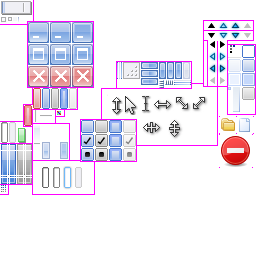
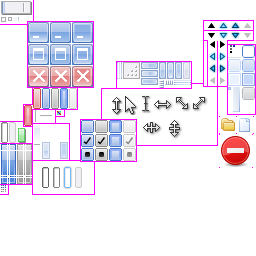
making the file manager pretty

Changed region(s): [[0.5312, 0.2188, 0.75, 0.3438], [0.9375, 0.2188, 1.0, 0.2812], [0.4375, 0.25, 0.5, 0.3125]]

diff --git a/api/gui.cpp b/api/gui.cpp
@@ -30,7 +30,7 @@ static void EnterDebugger() {
 #define LIST_VIEW_MARGIN (10)
 #define LIST_VIEW_TEXT_MARGIN (6)
 #define LIST_VIEW_WITH_BORDER_MARGIN (LIST_VIEW_MARGIN + STANDARD_BORDER_SIZE)
-#define LIST_VIEW_ROW_HEIGHT (20)
+#define LIST_VIEW_ROW_HEIGHT (21)
 #define LIST_VIEW_HEADER_HEIGHT (25)
 #define LIST_VIEW_COLUMN_TEXT_COLOR (0x4D6278)
 #define LIST_VIEW_PRIMARY_TEXT_COLOR (0x000000)
@@ -50,6 +50,7 @@ static void EnterDebugger() {
 struct UIImage {
 	OSRectangle region;
 	OSRectangle border;
+	OSDrawMode drawMode;
 };
 
 #if 0
@@ -136,11 +137,11 @@ static UIImage textboxDisabled		= {{22 + 52, 22 + 61, 166, 189}, {22 + 55, 22 + 
 
 static UIImage gridBox 			= {{1, 7, 17, 23}, {3, 4, 19, 20}};
 static UIImage menuBox 			= {{1, 32, 1, 15}, {28, 30, 4, 6}};
-static UIImage menubarBackground	= {{34, 40, 124, 145}, {35, 38, 124, 124}};
+static UIImage menubarBackground	= {{34, 40, 124, 145}, {35, 38, 128, 144}, OS_DRAW_MODE_STRECH};
 static UIImage dialogAltAreaBox		= {{18, 19, 17, 22}, {18, 19, 21, 22}};
 
-static UIImage menuItemHover		= {{42, 50, 142, 159}, {45, 46, 151, 152}};
-static UIImage menuItemDragged		= {{18 + 42, 18 + 50, 142, 159}, {18 + 45, 18 + 46, 151, 152}};
+static UIImage menuItemHover		= {{42, 50, 142, 159}, {45, 46, 151, 157}, OS_DRAW_MODE_STRECH};
+static UIImage menuItemDragged		= {{18 + 42, 18 + 50, 142, 159}, {18 + 45, 18 + 46, 151, 157}, OS_DRAW_MODE_STRECH};
 
 static UIImage scrollbarTrackHorizontalEnabled  = {{121, 122, 62, 79}, {121, 122, 62, 62}};
 static UIImage scrollbarTrackHorizontalPressed  = {{117, 118, 62, 79}, {117, 118, 62, 62}};
@@ -185,7 +186,7 @@ static UIImage listViewSelected2           = {{14 + 228, 14 + 241, 28 + 59, 28 +
 static UIImage listViewLastClicked         = {{14 + 228, 14 + 241, 59 - 14, 72 - 14}, {14 + 228 + 6, 14 + 228 + 7, 59 + 6 - 14, 59 + 7 - 14}};
 static UIImage listViewSelectionBox        = {{14 + 228 - 14, 14 + 231 - 14, 42 + 59 - 14, 42 + 62 - 14}, {14 + 228 + 1 - 14, 14 + 228 + 2 - 14, 42 + 59 + 1 - 14, 42 + 59 + 2 - 14}};
 static UIImage listViewColumnHeaderDivider = {{239, 240, 87, 112}, {239, 239, 87, 88}};
-static UIImage listViewColumnHeader        = {{233, 239, 87, 112}, {233, 234, 87, 88}};
+static UIImage listViewColumnHeader        = {{233, 239, 87, 112}, {233, 239, 87, 88}};
 
 static UIImage lineHorizontal		= {{40, 52, 115, 116}, {41, 42, 115, 115}};
 static UIImage *lineHorizontalBackgrounds[] = { &lineHorizontal, &lineHorizontal, &lineHorizontal, &lineHorizontal, };
@@ -764,22 +765,22 @@ static OSCallbackResponse ProcessControlMessage(OSObject _object, OSMessage *mes
 				if (control->backgrounds) {
 					if (control->backgrounds[0]) {
 						OSDrawSurfaceClipped(message->paint.surface, OS_SURFACE_UI_SHEET, control->bounds, control->backgrounds[0]->region, 
-								control->backgrounds[0]->border, OS_DRAW_MODE_REPEAT_FIRST, 0xFF, message->paint.clip);
+								control->backgrounds[0]->border, control->backgrounds[0]->drawMode, 0xFF, message->paint.clip);
 					}
 
 					if (control->backgrounds[2] && control->current2) {
 						OSDrawSurfaceClipped(message->paint.surface, OS_SURFACE_UI_SHEET, control->bounds, control->backgrounds[2]->region, 
-								control->backgrounds[2]->border, OS_DRAW_MODE_REPEAT_FIRST, control->current2 == 15 ? 0xFF : 0xF * control->current2, message->paint.clip);
+								control->backgrounds[2]->border, control->backgrounds[2]->drawMode, control->current2 == 15 ? 0xFF : 0xF * control->current2, message->paint.clip);
 					}
 
 					if (control->backgrounds[3] && control->current3) {
 						OSDrawSurfaceClipped(message->paint.surface, OS_SURFACE_UI_SHEET, control->bounds, control->backgrounds[3]->region, 
-								control->backgrounds[3]->border, OS_DRAW_MODE_REPEAT_FIRST, control->current3 == 15 ? 0xFF : 0xF * control->current3, message->paint.clip);
+								control->backgrounds[3]->border, control->backgrounds[3]->drawMode, control->current3 == 15 ? 0xFF : 0xF * control->current3, message->paint.clip);
 					}
 
 					if (control->backgrounds[1] && control->current4) {
 						OSDrawSurfaceClipped(message->paint.surface, OS_SURFACE_UI_SHEET, control->bounds, control->backgrounds[1]->region, 
-								control->backgrounds[1]->border, OS_DRAW_MODE_REPEAT_FIRST, control->current4 == 15 ? 0xFF : 0xF * control->current4, message->paint.clip);
+								control->backgrounds[1]->border, control->backgrounds[1]->drawMode, control->current4 == 15 ? 0xFF : 0xF * control->current4, message->paint.clip);
 					}
 				}
 
@@ -799,22 +800,22 @@ static OSCallbackResponse ProcessControlMessage(OSObject _object, OSMessage *mes
 
 					if (control->current1) {
 						OSDrawSurfaceClipped(message->paint.surface, OS_SURFACE_UI_SHEET, bounds, control->icons[0]->region, 
-								control->icons[0]->border, OS_DRAW_MODE_REPEAT_FIRST, 0xFF, message->paint.clip);
+								control->icons[0]->border, control->icons[0]->drawMode, 0xFF, message->paint.clip);
 					}
 
 					if (control->current2) {
 						OSDrawSurfaceClipped(message->paint.surface, OS_SURFACE_UI_SHEET, bounds, control->icons[2]->region, 
-								control->icons[2]->border, OS_DRAW_MODE_REPEAT_FIRST, control->current2 == 15 ? 0xFF : 0xF * control->current2, message->paint.clip);
+								control->icons[2]->border, control->icons[2]->drawMode, control->current2 == 15 ? 0xFF : 0xF * control->current2, message->paint.clip);
 					}
 
 					if (control->current3) {
 						OSDrawSurfaceClipped(message->paint.surface, OS_SURFACE_UI_SHEET, bounds, control->icons[3]->region, 
-								control->icons[3]->border, OS_DRAW_MODE_REPEAT_FIRST, control->current3 == 15 ? 0xFF : 0xF * control->current3, message->paint.clip);
+								control->icons[3]->border, control->icons[3]->drawMode, control->current3 == 15 ? 0xFF : 0xF * control->current3, message->paint.clip);
 					}
 
 					if (control->current4) {
 						OSDrawSurfaceClipped(message->paint.surface, OS_SURFACE_UI_SHEET, bounds, control->icons[1]->region, 
-								control->icons[1]->border, OS_DRAW_MODE_REPEAT_FIRST, control->current4 == 15 ? 0xFF : 0xF * control->current4, message->paint.clip);
+								control->icons[1]->border, control->icons[1]->drawMode, control->current4 == 15 ? 0xFF : 0xF * control->current4, message->paint.clip);
 					}
 				}
 
@@ -1688,7 +1689,7 @@ static OSCallbackResponse ProcessListViewMessage(OSObject object, OSMessage *mes
 						OSDrawSurfaceClipped(surface, OS_SURFACE_UI_SHEET, 
 								OS_MAKE_RECTANGLE(control->bounds.left, control->bounds.right, headerBounds.top, headerBounds.bottom),
 								listViewColumnHeader.region, listViewColumnHeader.border, 
-								OS_DRAW_MODE_REPEAT_FIRST, 0xFF, clip);
+								OS_DRAW_MODE_STRECH, 0xFF, clip);
 					}
 
 					if (ClipRectangle(clip, headerBounds, &clip2)) {
@@ -1875,7 +1876,7 @@ static OSCallbackResponse ProcessListViewMessage(OSObject object, OSMessage *mes
 		
 				if (control->dragging == ListView::DRAGGING_SELECTION) {
 					OSDrawSurfaceClipped(surface, OS_SURFACE_UI_SHEET, control->selectionBox,
-							listViewSelectionBox.region, listViewSelectionBox.border, OS_DRAW_MODE_REPEAT_FIRST, 0xFF, listClip);
+							listViewSelectionBox.region, listViewSelectionBox.border, listViewSelectionBox.drawMode, 0xFF, listClip);
 				}
 			}
 		
@@ -1932,7 +1933,23 @@ static OSCallbackResponse ProcessListViewMessage(OSObject object, OSMessage *mes
 		} break;
 
 		case OS_MESSAGE_MOUSE_LEFT_PRESSED: {
-			if (!IsPointInRectangle(control->bounds, message->mousePressed.positionX, message->mousePressed.positionY)
+			OSRectangle listClip;
+
+			{
+				OSRectangle area = control->bounds;
+				area.top += control->columns ? LIST_VIEW_HEADER_HEIGHT : 0;
+
+				if (control->flags & OS_CREATE_LIST_VIEW_BORDER) {
+					area.top += STANDARD_BORDER_SIZE;
+					area.bottom -= STANDARD_BORDER_SIZE;
+					area.left += STANDARD_BORDER_SIZE;
+					area.right -= STANDARD_BORDER_SIZE;
+				}
+
+				ClipRectangle(control->bounds, area, &listClip);
+			}
+
+			if (!IsPointInRectangle(listClip, message->mousePressed.positionX, message->mousePressed.positionY)
 					|| !(control->flags & OS_CREATE_LIST_VIEW_ANY_SELECTIONS)) {
 				break;
 			}
@@ -2454,10 +2471,10 @@ static OSCallbackResponse ProcessProgressBarMessage(OSObject _object, OSMessage 
 
 			if (control->disabled) {
 				OSDrawSurfaceClipped(message->paint.surface, OS_SURFACE_UI_SHEET, control->bounds, 
-						control->backgrounds[1]->region, control->backgrounds[1]->border, OS_DRAW_MODE_REPEAT_FIRST, 0xFF, message->paint.clip);
+						control->backgrounds[1]->region, control->backgrounds[1]->border, control->backgrounds[1]->drawMode, 0xFF, message->paint.clip);
 			} else {
 				OSDrawSurfaceClipped(message->paint.surface, OS_SURFACE_UI_SHEET, control->bounds, 
-						control->backgrounds[0]->region, control->backgrounds[0]->border, OS_DRAW_MODE_REPEAT_FIRST, 0xFF, message->paint.clip);
+						control->backgrounds[0]->region, control->backgrounds[0]->border, control->backgrounds[0]->drawMode, 0xFF, message->paint.clip);
 
 				int pelletCount = (control->bounds.right - control->bounds.left - 6) / 9;
 
@@ -2473,7 +2490,7 @@ static OSCallbackResponse ProcessProgressBarMessage(OSObject _object, OSMessage 
 						bounds.left += 3 + i * 9;
 						bounds.right = bounds.left + 8;
 						OSDrawSurfaceClipped(message->paint.surface, OS_SURFACE_UI_SHEET, bounds,
-								progressBarPellet.region, progressBarPellet.border, OS_DRAW_MODE_REPEAT_FIRST, 0xFF, message->paint.clip);
+								progressBarPellet.region, progressBarPellet.border, progressBarPellet.drawMode, 0xFF, message->paint.clip);
 					}
 				} else {
 					if (control->value >= pelletCount) control->value -= pelletCount;
@@ -2487,7 +2504,7 @@ static OSCallbackResponse ProcessProgressBarMessage(OSObject _object, OSMessage 
 						bounds.left += 3 + j * 9;
 						bounds.right = bounds.left + 8;
 						OSDrawSurfaceClipped(message->paint.surface, OS_SURFACE_UI_SHEET, bounds,
-								progressBarPellet.region, progressBarPellet.border, OS_DRAW_MODE_REPEAT_FIRST, 0xFF, message->paint.clip);
+								progressBarPellet.region, progressBarPellet.border, progressBarPellet.drawMode, 0xFF, message->paint.clip);
 					}
 				}
 			}
@@ -2860,7 +2877,7 @@ static OSCallbackResponse ProcessGridMessage(OSObject _object, OSMessage *messag
 					if (m.paint.force) {
 						if (grid->background) {
 							OSDrawSurfaceClipped(message->paint.surface, OS_SURFACE_UI_SHEET, grid->bounds, grid->background->region,
-									grid->background->border, OS_DRAW_MODE_REPEAT_FIRST, 0xFF, clip);
+									grid->background->border, grid->background->drawMode, 0xFF, clip);
 						} else if (grid->backgroundColor) {
 							OSFillRectangle(message->paint.surface, clip, OSColor(grid->backgroundColor));
 						}
@@ -2890,7 +2907,7 @@ static OSCallbackResponse ProcessGridMessage(OSObject _object, OSMessage *messag
 					OSRectangle border = grid->background->border;
 
 					OSDrawSurfaceClipped(message->paint.surface, OS_SURFACE_UI_SHEET, full, region,
-							border, OS_DRAW_MODE_REPEAT_FIRST, 0xFF, clip);
+							border, grid->background->drawMode, 0xFF, clip);
 				} else if (grid->backgroundColor) {
 					OSFillRectangle(message->paint.surface, clip, OSColor(grid->backgroundColor));
 				}
@@ -2957,6 +2974,7 @@ OSObject OSCreateGrid(unsigned columns, unsigned rows, unsigned flags) {
 	if (flags & OS_CREATE_GRID_DRAW_BOX) { grid->borderSize += 4; grid->background = &gridBox;  }
 	if (flags & OS_CREATE_GRID_NO_BACKGROUND) { grid->backgroundColor = 0; }
 	if (flags & OS_CREATE_GRID_ALT_BACKGROUND) { grid->background = &dialogAltAreaBox; }
+	if (flags & OS_CREATE_GRID_MENUBAR_BACKGROUND) { grid->background = &menubarBackground; } 
 
 	OSSetCallback(grid, OS_MAKE_CALLBACK(ProcessGridMessage, nullptr));
 
@@ -3326,6 +3344,7 @@ void OSSetScrollbarMeasurements(OSObject _scrollbar, int contentSize, int viewpo
 	if (contentSize <= viewportSize) {
 		scrollbar->enabled = false;
 		scrollbar->height = 0;
+		scrollbar->position = 0;
 
 		OSDisableControl(scrollbar->objects[0], true);
 		OSDisableControl(scrollbar->objects[2], true);

diff --git a/file_manager/main.cpp b/file_manager/main.cpp
@@ -7,6 +7,8 @@
 #define OS_MANIFEST_DEFINITIONS
 #include "../bin/os/file_manager.manifest.h"
 
+// TODO Why does the scrollbar start at the bottom when changing folders?
+
 struct FolderChild {
 	OSDirectoryChild data;
 	bool selected;
@@ -15,6 +17,7 @@ struct FolderChild {
 struct Instance {
 	OSObject folderListing,
 		 folderPath,
+		 statusLabel,
 		 window;
 
 	FolderChild *folderChildren;
@@ -51,6 +54,9 @@ OSListViewColumn folderListingColumns[] = {
 #define COLUMN_SIZE (3)
 	{ OSLiteral("Size"), 100, OS_LIST_VIEW_COLUMN_RIGHT_ALIGNED, },
 };
+
+#define GUI_STRING_BUFFER_LENGTH (1024)
+char guiStringBuffer[GUI_STRING_BUFFER_LENGTH];
 
 int64_t ParseIntegerFromString(char **string, size_t *length, int base) {
 	int64_t value = 0;
@@ -263,8 +269,8 @@ OSCallbackResponse ProcessFolderListingNotification(OSObject object, OSMessage *
 							uint64_t children = data->information.directoryChildren;
 
 							if (children == 0) message->listViewItem.textBytes = OSFormatString(buffer, BUFFER_SIZE, "(empty)");
-							else if (children == 1) message->listViewItem.textBytes = OSFormatString(buffer, BUFFER_SIZE, "1 file");
-							else message->listViewItem.textBytes = OSFormatString(buffer, BUFFER_SIZE, "%d files", children);
+							else if (children == 1) message->listViewItem.textBytes = OSFormatString(buffer, BUFFER_SIZE, "1 item");
+							else message->listViewItem.textBytes = OSFormatString(buffer, BUFFER_SIZE, "%d items", children);
 						}
 					} break;
 				}
@@ -455,6 +461,7 @@ void Instance::LoadFolder(char *path1, size_t pathBytes1, char *path2, size_t pa
 	// Update the UI.
 	OSListViewReset(folderListing);
 	OSListViewInsert(folderListing, 0, childCount);
+	OSSetScrollbarPosition(folderListing, 0, false);
 	OSSetText(folderPath, path, pathBytes);
 	OSEnableCommand(window, commandNavigateParent, pathBytes1 != 1);
 
@@ -484,6 +491,15 @@ void Instance::LoadFolder(char *path1, size_t pathBytes1, char *path2, size_t pa
 			OSEnableCommand(window, commandNavigateForwards, false);
 		}
 	}
+
+	// Update the status label.
+	{
+		size_t length;
+		if (folderChildCount == 0) length = OSFormatString(guiStringBuffer, GUI_STRING_BUFFER_LENGTH, "(empty)");
+		else if (folderChildCount == 1) length = OSFormatString(guiStringBuffer, GUI_STRING_BUFFER_LENGTH, "1 item");
+		else length = OSFormatString(guiStringBuffer, GUI_STRING_BUFFER_LENGTH, "%d items", folderChildCount);
+		OSSetText(statusLabel, guiStringBuffer, length);
+	}
 }
 
 void ProgramEntry() {
@@ -495,23 +511,24 @@ void ProgramEntry() {
 
 	OSObject layout1 = OSCreateGrid(1, 4, OS_CREATE_GRID_NO_BORDER | OS_CREATE_GRID_NO_GAP);
 	OSObject layout2 = OSCreateGrid(2, 1, OS_CREATE_GRID_NO_BORDER | OS_CREATE_GRID_NO_GAP);
-	OSObject layout3 = OSCreateGrid(4, 1, OS_FLAGS_DEFAULT);
-	OSObject layout4 = OSCreateGrid(1, 1, OS_CREATE_GRID_ALT_BACKGROUND);
+	OSObject layout3 = OSCreateGrid(4, 1, OS_CREATE_GRID_MENUBAR_BACKGROUND);
+	OSObject layout4 = OSCreateGrid(2, 1, OS_CREATE_GRID_ALT_BACKGROUND);
 
 	OSSetRootGrid(window, layout1);
 	OSAddGrid(layout1, 0, 2, layout2, OS_CELL_FILL);
 	OSAddGrid(layout1, 0, 0, layout3, OS_CELL_H_EXPAND | OS_CELL_H_PUSH);
 	OSAddGrid(layout1, 0, 3, layout4, OS_CELL_H_EXPAND | OS_CELL_H_PUSH);
 
-	OSSetProperty(layout3, OS_GRID_PROPERTY_BORDER_SIZE, (void *) 2);
-	OSSetProperty(layout3, OS_GRID_PROPERTY_GAP_SIZE, (void *) 2);
+	OSSetProperty(layout3, OS_GRID_PROPERTY_BORDER_SIZE, (void *) 6);
+	OSSetProperty(layout3, OS_GRID_PROPERTY_GAP_SIZE, (void *) 6);
+	OSSetProperty(layout4, OS_GRID_PROPERTY_BORDER_SIZE, (void *) 4);
 
 	instance->folderListing = OSCreateListView(OS_CREATE_LIST_VIEW_MULTI_SELECT);
 	OSAddControl(layout2, 1, 0, instance->folderListing, OS_CELL_FILL);
 	OSListViewSetColumns(instance->folderListing, folderListingColumns, sizeof(folderListingColumns) / sizeof(folderListingColumns[0]));
 	OSSetObjectNotificationCallback(instance->folderListing, OS_MAKE_CALLBACK(ProcessFolderListingNotification, instance));
 
-	OSAddControl(layout1, 0, 1, OSCreateLine(OS_ORIENTATION_HORIZONTAL), OS_CELL_H_EXPAND | OS_CELL_H_PUSH);
+	// OSAddControl(layout1, 0, 1, OSCreateLine(OS_ORIENTATION_HORIZONTAL), OS_CELL_H_EXPAND | OS_CELL_H_PUSH);
 
 	OSObject backButton = OSCreateButton(commandNavigateBackwards);
 	OSAddControl(layout3, 0, 0, backButton, OS_FLAGS_DEFAULT);
@@ -524,8 +541,8 @@ void ProgramEntry() {
 	OSAddControl(layout3, 3, 0, instance->folderPath, OS_CELL_H_EXPAND | OS_CELL_H_PUSH);
 	OSSetObjectNotificationCallback(instance->folderPath, OS_MAKE_CALLBACK(ProcessFolderPathNotification, instance));
 
-	OSAddControl(layout4, 0, 0, OSCreateLabel(OSLiteral("Status bar")), OS_FLAGS_DEFAULT);
-	OSSetProperty(layout4, OS_GRID_PROPERTY_BORDER_SIZE, (void *) 4);
+	instance->statusLabel = OSCreateLabel(OSLiteral(""));
+	OSAddControl(layout4, 1, 0, instance->statusLabel, OS_FLAGS_DEFAULT);
 
 	instance->LoadFolder(OSLiteral("/"));
 

diff --git a/api/os.h b/api/os.h
@@ -674,9 +674,9 @@ typedef struct OSMessage {
 
 // Determines how the image is scaled.
 typedef enum OSDrawMode {
-	OS_DRAW_MODE_STRECH, // Not implemented yet.
-	OS_DRAW_MODE_REPEAT, // Not implemented yet.
-	OS_DRAW_MODE_REPEAT_FIRST, // The first non-border pixel is repeated.
+	OS_DRAW_MODE_REPEAT_FIRST = 0, // The first non-border pixel is repeated.
+	OS_DRAW_MODE_STRECH, 
+	OS_DRAW_MODE_REPEAT,
 } OSDrawMode;
 
 typedef void (*OSThreadEntryFunction)(void *argument);
@@ -788,6 +788,7 @@ typedef struct OSListViewColumn {
 #define OS_CREATE_GRID_STANDARD_BACKGROUND  (0)
 #define OS_CREATE_GRID_NO_BACKGROUND	    (16)
 #define OS_CREATE_GRID_ALT_BACKGROUND	    (32)
+#define OS_CREATE_GRID_MENUBAR_BACKGROUND   (64)
 
 #define OS_CREATE_SCROLL_PANE_VERTICAL      (1)
 #define OS_CREATE_SCROLL_PANE_HORIZONTAL    (2)
